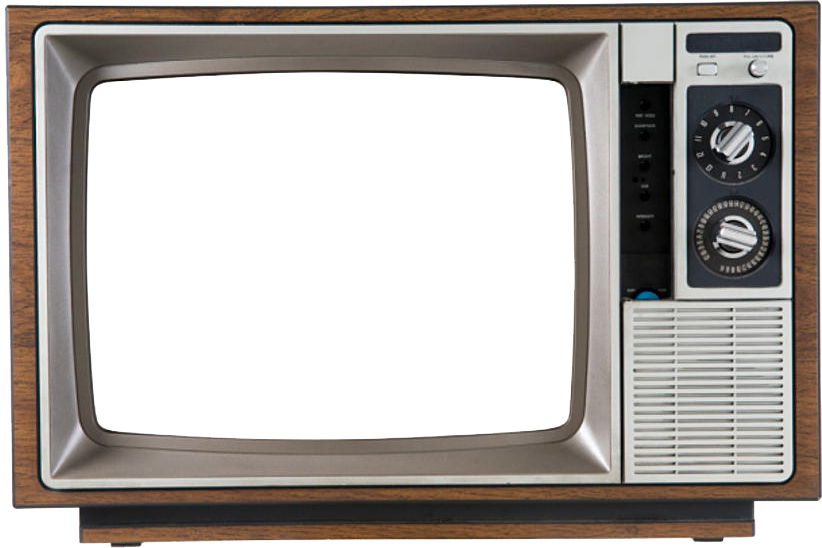
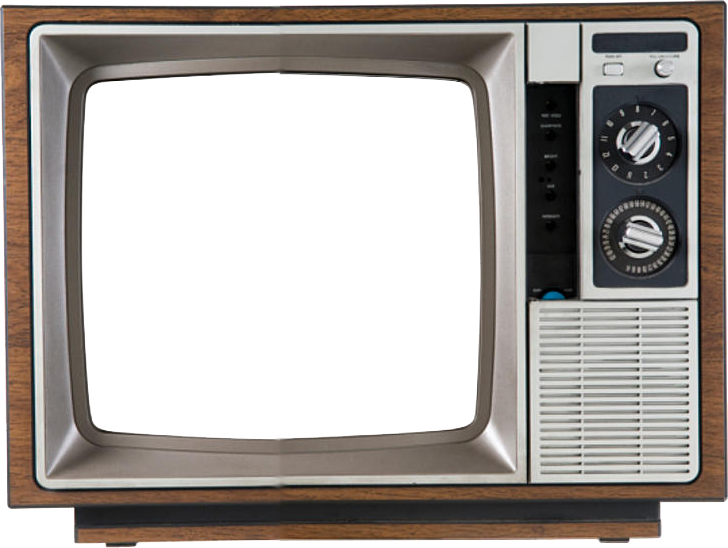
added static to screen view and modified tv to fit emulator window

diff --git a/frontend/src/views/Static.js b/frontend/src/views/Static.js
@@ -1,0 +1,44 @@
+import React, { useRef, useEffect } from 'react';
+
+const Static = props => {
+  
+  const canvasRef = useRef(null)
+  
+  const draw = (ctx, h, v, pw, ph) => {
+    var lum = Math.floor( Math.random() * 40)
+
+    ctx.fillStyle = "hsl(0, 0%," + lum + "%)";
+    ctx.fillRect(h,v,pw,ph)
+  }
+
+  useEffect(() => {
+    const canvas = canvasRef.current
+    const context = canvas.getContext('2d')
+    const tvHeight = 373
+    const tvWidth = 398
+    const pixelWidth = 4
+    const pixelHeight = 3
+
+    let animationFrameId
+    
+    const render = () =>{
+      for (var v=0; v < tvHeight; v += pixelHeight){
+        for(var h=0; h < tvWidth; h += pixelWidth){
+          draw (context, h, v, pixelWidth, pixelHeight)
+        }
+      }
+      animationFrameId = window.requestAnimationFrame(render)
+    }
+    render()
+
+    return () => {
+      window.cancelAnimationFrame(animationFrameId)
+    }
+  }, [draw])
+
+  return (
+    <canvas ref={canvasRef} width={398} height={373} {...props} />
+  )
+}
+
+export default Static

diff --git a/frontend/src/sass/components/_emulator.scss b/frontend/src/sass/components/_emulator.scss
@@ -4,11 +4,19 @@
   display: flex;
   flex-direction: column;
   align-items: end;
+  position: absolute;
+  top: 60px;
+  left: 72px;
 }
 
 #screen-container {
-    width: 512px;
-    height: 480px;
+    width: 398px;
+    height: 373px;
+     
+    & > .Screen{
+      top: 11px;
+      left: 12px;
+    }
 }
 
 #pause-button {
@@ -20,13 +28,25 @@
   flex-direction: column;
 }
 
-.tv {
-  position: absolute;
-}
+.outer-screen{
+  position: relative;
+
+  & img {
+    position: relative;
+    z-index: 2;
+  }
+
+  & canvas {
+    position: absolute;
+    z-index: 0;
+    top: 70px;
+    left: 80px;
+  }
+} 
 
 #screen {
-    width: 512px;
-    height: 480px;
+    width: 520px;
+    height: 393px;
 }
 
 #rom-selector-label {

diff --git a/frontend/src/views/InnerScreenView.js b/frontend/src/views/InnerScreenView.js
@@ -3,8 +3,9 @@ import Button from 'react-bootstrap/Button';
 import Form from 'react-bootstrap/Form';
 
 import Emulator from '../components/Emulator';
+import Static from './Static';
 
-export default function EmulatorTestingView() {
+export default function InnerScreenView() {
 
     const [romData, setRomData] = useState();
     const [paused, setPaused] = useState(false);
@@ -35,6 +36,7 @@ export default function EmulatorTestingView() {
 
     return (
         <div id="rom-selector-container">
+            <Static width={398} height={373} />
             <Form>
                 <Form.Group className="text-center">
                     <Form.Label id="rom-selector-label">please load a .nes file</Form.Label>

diff --git a/frontend/src/App.js b/frontend/src/App.js
@@ -4,7 +4,7 @@ import Row from 'react-bootstrap/Row';
 import Col from 'react-bootstrap/Col';
 import './sass/styles.scss';
 
-import EmulatorTestingView from './views/EmulatorTestingView';
+import OuterScreenView from './views/OuterScreenView';
 
 function App() {
   return (
@@ -12,7 +12,7 @@ function App() {
       <Row>
         <Col lg="2"></Col>
         <Col id="primary-column" className="text-secondary">
-          <EmulatorTestingView  />
+            <OuterScreenView />
         </Col>
         <Col lg="2"></Col>
       </Row>

diff --git a/frontend/src/views/OuterScreenView.js b/frontend/src/views/OuterScreenView.js
@@ -1,0 +1,15 @@
+import React from 'react';
+import InnerScreenView from './InnerScreenView';
+import Static from './Static';
+
+
+import tv from '../images/tv.png';
+
+export default function OuterScreenView() {
+  return (
+    <div className="outer-screen">
+      <img src={tv} />
+      <InnerScreenView />
+    </div>
+  )
+}
